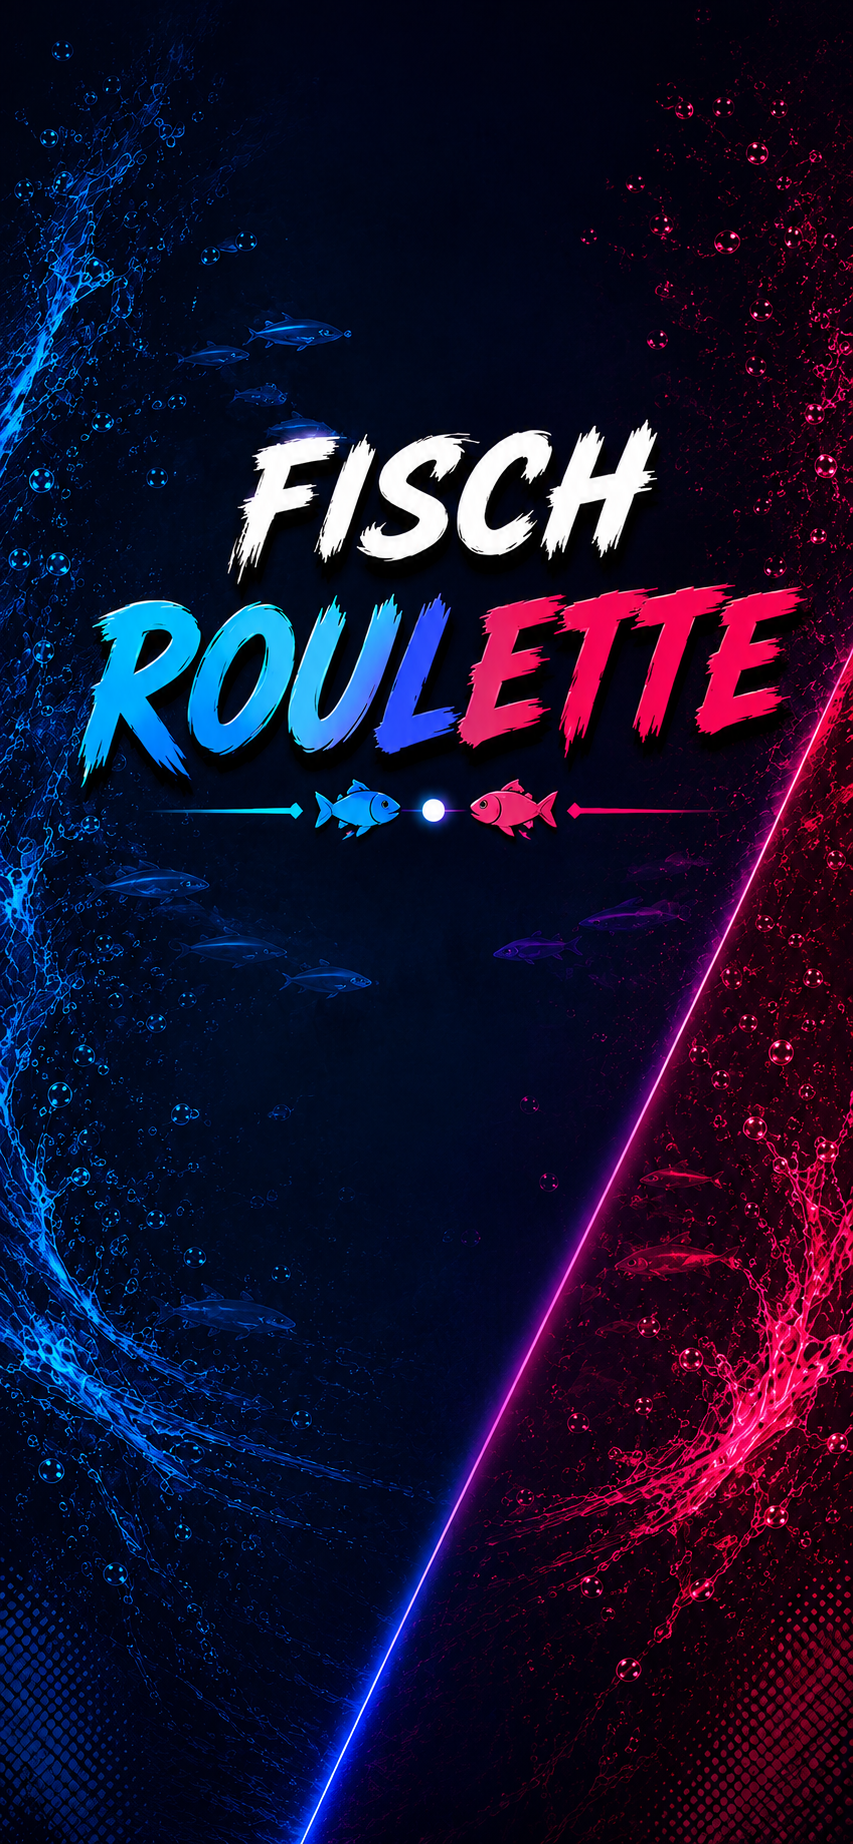
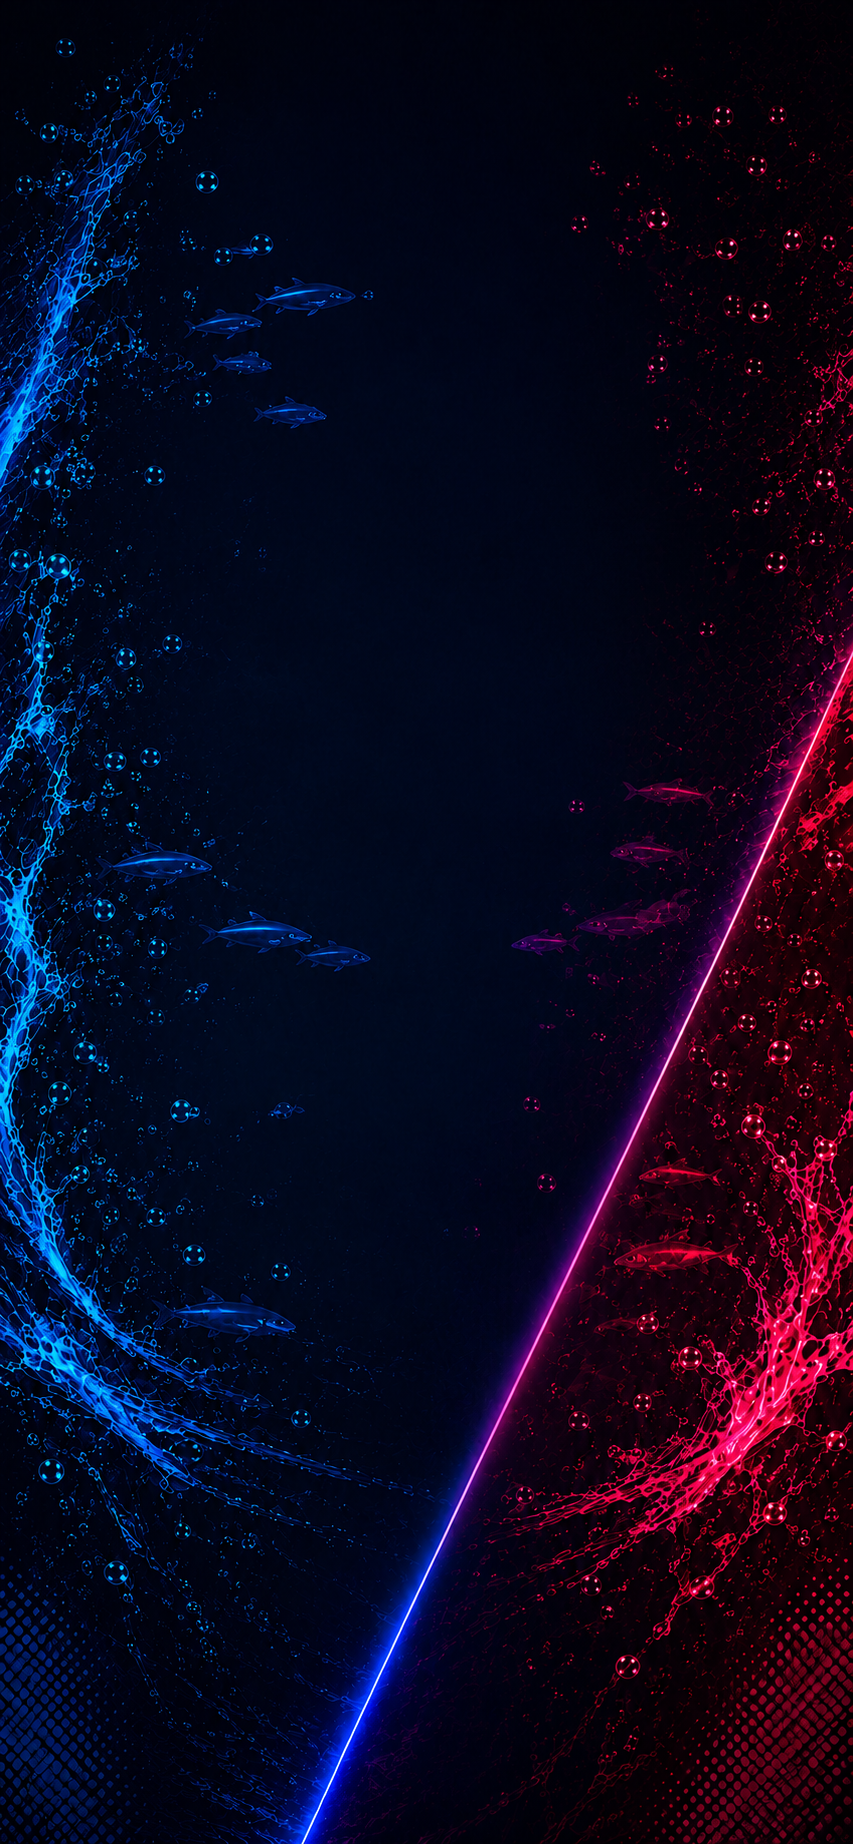
Background and title seperation

diff --git a/index.html b/index.html
@@ -13,7 +13,7 @@
     <title>Fischteich Angel</title>
     <link rel="manifest" href="./manifest.webmanifest">
     <link rel="apple-touch-icon" sizes="180x180" href="./assets/apple-touch-icon.png">
-    <link rel="stylesheet" href="./style.css?v=26">
+    <link rel="stylesheet" href="./style.css?v=27">
     <script src="./script.js?v=11" defer></script>
   </head>
   <body>
@@ -125,6 +125,15 @@
           alt=""
           width="853"
           height="1844"
+          draggable="false"
+          aria-hidden="true"
+        >
+        <img
+          class="roulette-title-image"
+          src="./assets/title-fisch-roulette.png?v=1"
+          alt=""
+          width="1723"
+          height="913"
           draggable="false"
           aria-hidden="true"
         >

diff --git a/style.css b/style.css
@@ -126,6 +126,19 @@ button:focus-visible {
   -webkit-user-drag: none;
 }
 
+.roulette-title-image {
+  position: absolute;
+  z-index: 1;
+  top: max(calc(env(safe-area-inset-top) + 20px), clamp(58px, 8dvh, 72px));
+  left: 50%;
+  width: min(96vw, 420px);
+  height: auto;
+  transform: translateX(-50%);
+  pointer-events: none;
+  user-select: none;
+  -webkit-user-drag: none;
+}
+
 .menu-card,
 .choice-card,
 .roulette-content {
